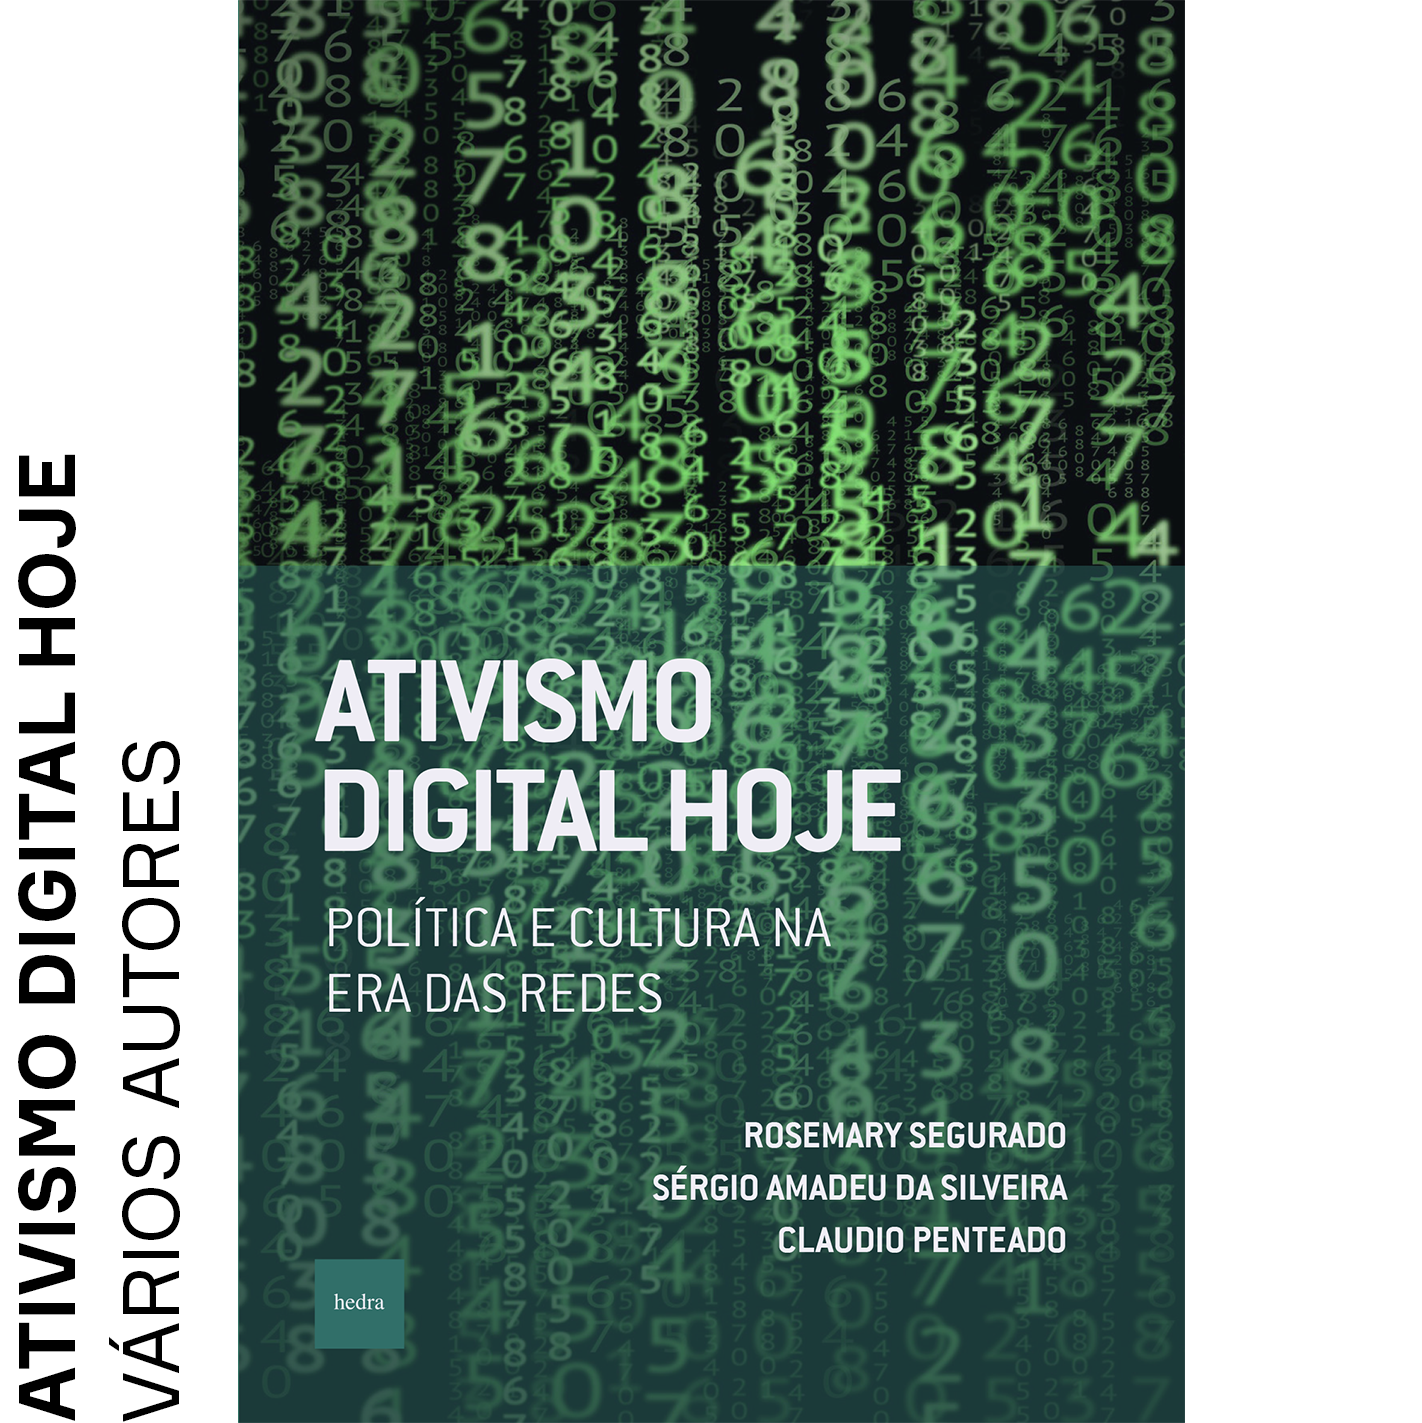
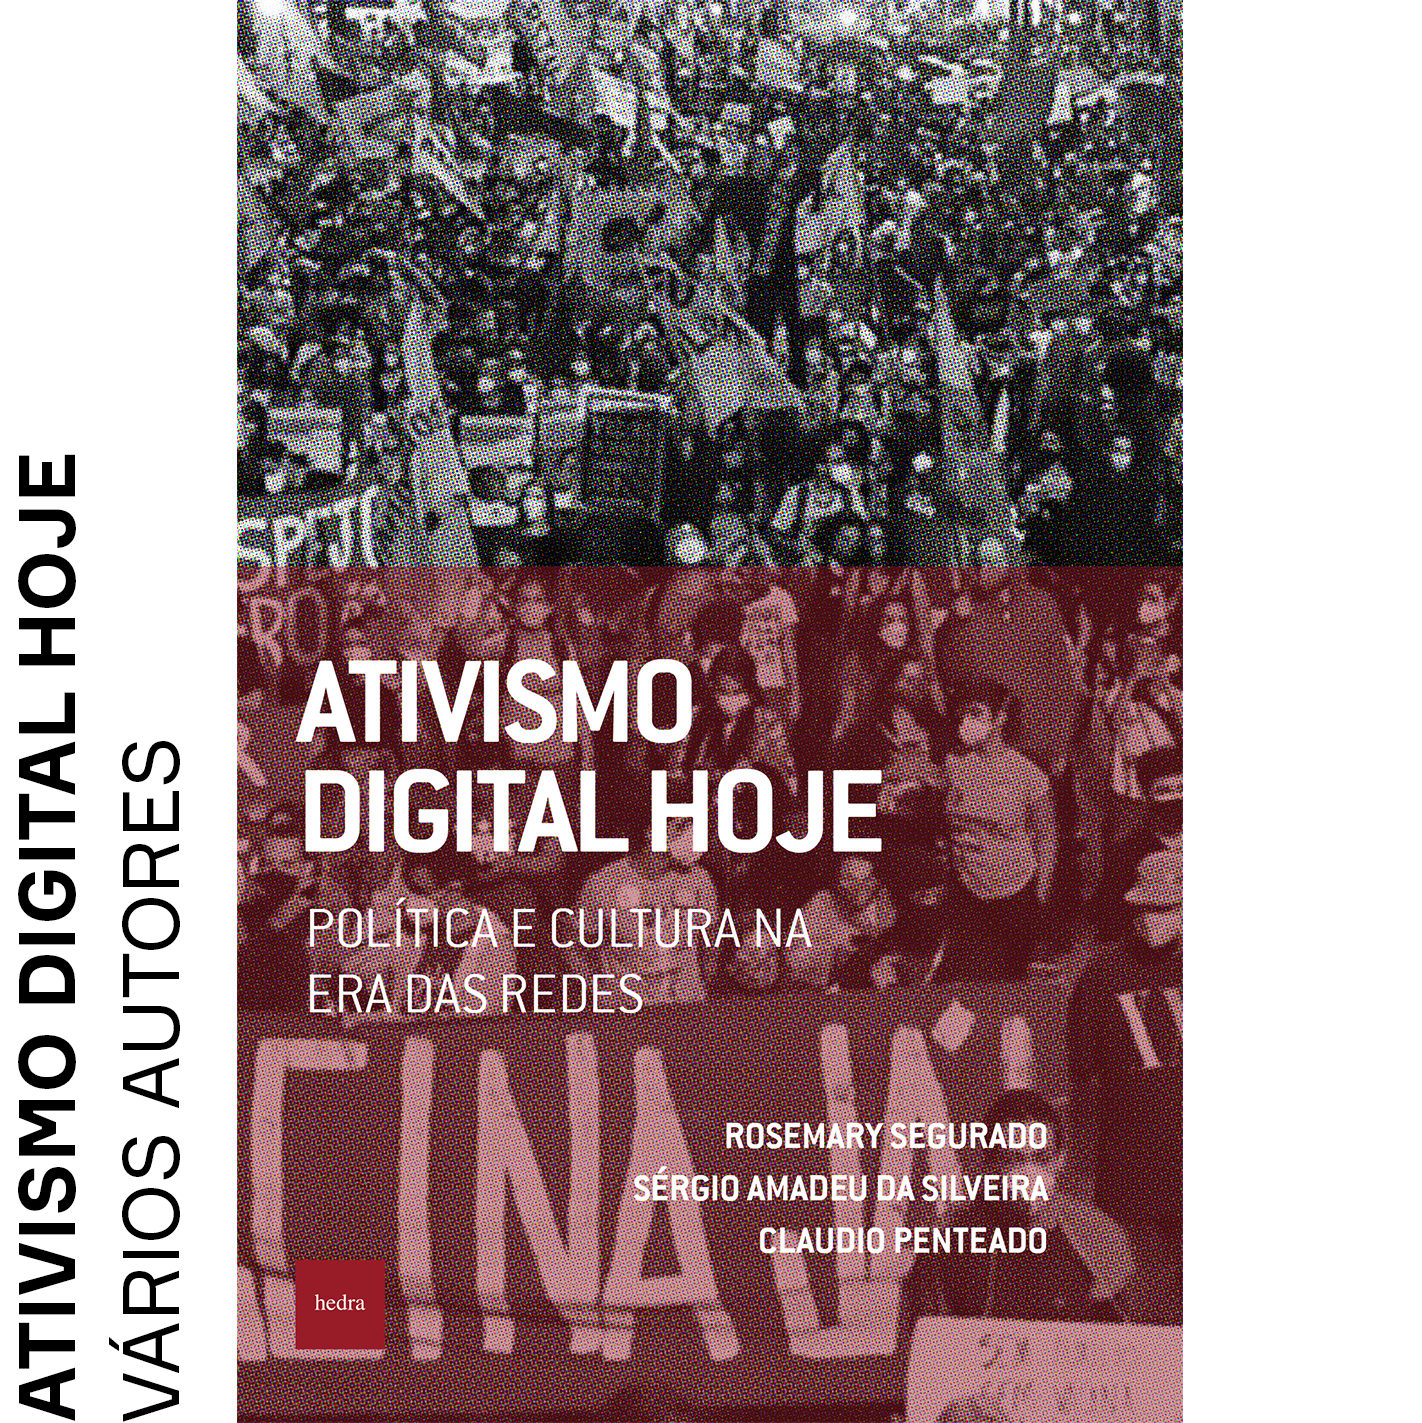
mais vendidos

diff --git a/HEDRA.tex b/HEDRA.tex
@@ -218,7 +218,7 @@ Preço: R\$ 59,00\\
 \pagebreak
 
 \begin{center}
-\hspace*{.5cm}\includegraphics[width=74mm]{./CAPAS/AMADEU_ATIVISMO.jpg}
+\hspace*{.5cm}\includegraphics[width=74mm]{./CAPAS/HEDRA_ATIVISMO.jpg}
 \end{center}
 \hspace*{-7cm}\hrulefill\hspace*{-7cm}
 \medskip
@@ -460,36 +460,36 @@ Na capital do Império, Gama era apresentado pela \textit{Gazeta da Tarde} como 
 \begin{multicols}{2}
 \begin{enumerate}
 \raggedright\nohyphens{
+\item A sociedade de controle \textbf{Joyce Souza, Rodolfo Avelino, Sérgio Amadeu da Silveira}
+\item O contador de histórias e outros textos \textbf{Walter Benjamin}
+\item Diário parisiense e outros escritos \textbf{Walter Benjamin}
+\item Rashômon e outros contos \textbf{Akutagawa}
+\item A linguagem fascista \textbf{Carlos Piovezani, Emilio Gentile}
 \item Teogonia \textbf{Hesíodo}
-\item O ladrão honesto e outros contos \textbf{Fiódor Dostoiévski}
-\item Micromegas \textbf{Voltaire}
-\item A sociedade de controle \textbf{Joyce Souza, Rodolfo Avelino e Sérgio Amadeu da Silveira}
-\item O quarto poder \textbf{Paulo Henrique Amorim}
-\item Deus e o Estado \textbf{Mikhail Bakunin}
-\item Lugar de negro, lugar de branco? \textbf{Douglas Rodrigues Barros}
-\item O princípio anarquista e outros ensaios \textbf{Piotr Alekseievitch Kropotkin}
-\item Dicionário de história e cultura da era viking \textbf{Johnni Langer}
+\item Liberdade \textbf{1880-1882) \textbf{Luiz Gama}
 \item Poesia completa \textbf{Orides Fontela}
 \item Sobre verdade e mentira \textbf{Friedrich Nietzsche}
-\item Dicionário de mitologia nórdica \textbf{Johnni Langer}
-\item Rashômon e outros contos \textbf{Akutagawa}
-\item O indivíduo, a sociedade e o Estado e outros ensaios \textbf{Emma Goldman}
-\item Memórias do subsolo \textbf{Fiódor Dostoiévski}
-\item O chamado de Cthulhu \textbf{H.\,P.\,Lovecraft}
-\item Bom crioulo \textbf{Adolfo Caminha}
-\item Nos cumes do desespero \textbf{Emil Cioran}
-\item Édipo Rei \textbf{Sófocles}
-\item Dilma Rousseff e o ódio político \textbf{Tales Sáber}
-\item Contos clássicos de vampiro \textbf{Lord Byron, Bram Stoker e mais}
+\item A volta do parafuso \textbf{Henry James}
+\item Democracia \textbf{1866-1869) \textbf{Luiz Gama}
 \item Trabalhos e os dias \textbf{Hesíodo}
+\item Deus e o Estado \textbf{Mikhail Bakunin}
+\item Hino a Afrodite e outros poemas \textbf{Safo de Lesbos}
+\item O princípio anarquista e outros ensaios \textbf{Piotr Alekseievitch Kropotkin}
+\item Pandemia e anarquia \textbf{Edson Passetti, João da Mata, José Maria Carvalho Ferreira}
+\item Lugar de negro, lugar de branco? \textbf{Douglas Rodrigues Barros}
+\item O indivíduo, a sociedade e o Estado e outros ensaios \textbf{Emma Goldman}
+\item Machismo, racismo, capitalismo identitário \textbf{Pablo Polese}
+\item Dicionário de mitologia nórdica \textbf{Johnni Langer}
+\item Freud e o patriarcado \textbf{Léa Silveira, Alessandra Martins Parente}
+\item Dicionário de história e cultura da era Viking \textbf{Johnni Langer} 
+\item O princípio do Estado e outros ensaios \textbf{Mikhail Bakunin}
 \item Sobre a utilidade e a desvantagem da história para a vida \textbf{Friedrich Nietzsche}
-\item Saga dos volsungos \textbf{Anônimo}
-\item O contador de histórias \textbf{Walter Benjamin}
-\item Michel Temer e o fascismo comum \textbf{Tales Ab'Sáber}
-\item A metamorfose \textbf{Franz Kafka}
-\item A filosofia na era trágica dos gregos \textbf{Friedrich Nietzsche}
-\item O médico e o monstro \textbf{Robert Louis Stevenson}
-\item Diário de um escritor (1873) \textbf{Fiódor Dostoiévski}
+\item Ode sobre a melancolia e outros poemas \textbf{John Keats}
+\item O chamado de Cthulhu \textbf{H. P. Lovecraft}
+\item Saga dos Volsungos \textbf{Anônimo}
+\item Os sofrimentos do jovem Werther \textbf{Johann Wolfgang Von Goethe}
+\item Memórias do subsolo \textbf{Fiódor Dostoiévski}
+\item A monadologia e outros textos \textbf{Gottfried Leibniz}
 }
 \end{enumerate}
 \end{multicols}

diff --git a/CIRCUITO.tex b/CIRCUITO.tex
@@ -267,36 +267,36 @@ artística, o espectador.
 \begin{multicols}{2}
 \begin{enumerate}
 \raggedright\nohyphens{
-\item 2013 \textbf{Camila Jourdan}
-\item Adoecer \textbf{Hélia Correia}
 \item Introdução à Soma \textbf{João da Mata}
-\item Éter \textbf{António Cabrita}
-\item Diários de Vincent \textbf{Evando Nascimento}
-\item Até ano que vem em Jerusalém \textbf{Maria da Conceição Caleiro}
-\item Noturno Europeu \textbf{Rui Nunes}
-\item A loucura branca \textbf{Jaime Rocha}
 \item Filosofia Black Bloc \textbf{Murilo Duarte Costa Correa}
+\item 2013 \textbf{Camila Jourdan}
+\item Antifa \textbf{Vários autores}
+\item 1967, meio século depois \textbf{Vários autores}
+\item Experimentum linguae \textbf{Giorgio Agamben}
+\item Adoecer \textbf{Hélia Correia}
 \item Todos os lugares \textbf{Alex Cerveny}
-\item Onde late um cachorro doido \textbf{Moisés Alves}
-\item O tropo tropicalista \textbf{João Camillo Penna}
-\item Experimentum linguae \textbf{Giorgio Agamben; Cláudio Oliveira}
-\item Nós, o outro, o distante na arte brasileira contemporânea \textbf{Marisa Flórido Cesar}
-\item A liberação da mosca \textbf{Luigi Amara}
-\item Asas de Saturno \textbf{Maria João Cantinho}
-\item Experiência e arte contemporânea \textbf{Ana Kiffer, Renato Rezende e Christopher Bident}
-\item A reflexão atuante \textbf{Sergio Cohn}
-\item Escritos sobre fotografia contemporânea brasileira \textbf{Antonio Fatorelli, Leandro Pimentel e Victa de Carvalho}
-\item O fantasma de um nome \textbf{poesia, imaginário, vida} \textbf{Jorge Monteleone}
-\item A ideia de cinema na arte contemporânea brasileira \textbf{Katia Maciel}
-\item Daniel Acosta \textbf{Tadeu Chiarelli, Martin Grossman e mais}
+\item Formas híbridas \textbf{Rafael Gutiérrez}
+\item Até ano que vem em Jerusalém \textbf{Maria da Conceição Caleiro}
+\item Coisas que fiz e ninguém notou mas que mudaram tudo \textbf{Moisés Alves}
 \item Escrever sobre escrever poesia \textbf{Eduardo Milán}
-\item Leituras furadas \textbf{Luis Felipe Fabre}
+\item Noturno Europeu \textbf{Rui Nunes}
+\item O tropo tropicalista \textbf{João Camillo Penna}
+\item Quem apaga a luz sou eu \textbf{Magda Romano}
 \item Mudança \textbf{Verónica Gerber Bicecci}
-\item A noite não é eterna \textbf{Ana Cristina Silva}
-\item O desafio da hospitalidade \textbf{Márcia Noronha Santos Ferran}
-\item Impunidade \textbf{H.\,G.\,Cancela}
+\item Fim do Infante \textbf{Marina Marcondes Machado}
+\item A loucura branca \textbf{Jaime Rocha}
 \item As artes do cover \textbf{Henrique Saidel}
-\item Conversas transversais com Yuri Firmeza \textbf{Cecília Bedê}
+\item Leituras furadas \textbf{Luis Felipe Fabre}
+\item Éter \textbf{António Cabrita}
+\item A liberação da mosca \textbf{Luigi Amara}
+\item Daniel Acosta \textbf{Vários autores}
+\item Café irlandês \textbf{Barbosa Lagos}
+\item Escrito e dirigido por Moisés Alves \textbf{Moisés Alves}
+\item Romance de asilo \textbf{André Monteiro}
+\item A cena lenta \textbf{Cláudio Oliveira}
+\item Frestas \textbf{André Gardel}
+\item O fantasma de um nome \textbf{poesia, imaginário, vida) \textbf{Jorge Monteleone}
+\item Lasca de breu \textbf{Guilherme Delgado}
 }
 \end{enumerate}
 \end{multicols}

diff --git a/N-1.tex b/N-1.tex
@@ -668,34 +668,34 @@ bases para uma crítica das relações entre memória, potencialidade e
 \raggedright\nohyphens{
 \item Necropolítica \textbf{Achille Mbembe}
 \item Crítica da razão negra \textbf{Achille Mbembe}
-\item Teoria King Kong \textbf{Virginie Despentes}
-\item Corpos que importam \textbf{Judith Butler}
-\item Esferas da inssureição \textbf{Suely Rolnik}
 \item Testo junkie \textbf{Paul B. Preciado}
-\item Nietzsche e a filosofia \textbf{Gilles Deleuze}
-\item A cosmopolítica dos animais \textbf{Juliana Fausto}
-\item Tempos Modernos: Arte, tempo, política \textbf{Jacques Rancière}
-\item Bash Back \textbf{Bash Back}
-\item As existências mínimas \textbf{David Lapoujade}
-\item Manifesto contrassexual \textbf{Beatriz Preciado}
-\item Ensaios do assombro \textbf{Peter Pál Pelbart}
 \item Pornotopia \textbf{Paul B. Preciado}
-\item Ética bixa \textbf{Paco Vidarte}
-\item Os vagabundos eficazes \textbf{Fernand Deligny}
+\item Teoria King Kong \textbf{Virginie Despentes, Márcia Bechara}
+\item Manifesto contrassexual \textbf{Paul B. Preciado}
+\item Esferas da inssureição \textbf{Suely Rolnik}
+\item Corpos que importam \textbf{Judith Butler}
+\item A cosmopolítica dos animais \textbf{Juliana Fausto}
+\item Nietzsche e a filosofia \textbf{Gilles Deleuze}
+\item Bash Back \textbf{Vários autores}
+\item Diferentes modos de existência \textbf{Étienne Soriau}
+\item Tempos Modernos: Arte, tempo, política \textbf{Jacques Rancière}
+\item Semente de crápula \textbf{Fernand Deligny}
+\item O clarão de Espinosa \textbf{Romain Rolland}
 \item Povo em lágrimas, povo em armas \textbf{Georges Didi-Huberman}
-\item Um piano nas barricadas \textbf{N-1 edições}
-\item Impressões de Michel Foucault \textbf{Roberto Machado}
-\item Deleuze, os movimentos aberrantes \textbf{David Lapoujade}
-\item Fascismo ou revolução? \textbf{Maurizio Lazzarato}
-\item Fernando Pessoa ou a Metafísica das Sensações \textbf{José Gil}
-\item O enigma da revolta \textbf{Michel Foucault}
-\item Cartas e outros textos \textbf{Gilles Deleuze e David Lapoujade}
-\item Potências do tempo \textbf{David Lapoujade}
+\item Homo Inc.Orporated \textbf{Sam Bourcier}
+\item As existências mínimas \textbf{David Lapoujade}
+\item Os vagabundos eficazes \textbf{Fernand Deligny}
+\item No silêncio que as palavras guardam \textbf{Lula Wanderley}
 \item Fragmentos de memórias malditas \textbf{Cecília Coimbra}
-\item Pragmatismo pulsional \textbf{João Perci Schiavon}
-\item Arqueofeminismo \textbf{Maxime Rovere}
-\item Aos nossos amigos \textbf{Comitê Invisível}
+\item Ética bixa \textbf{Paco Vidarte}
+\item Salto no escuro \textbf{Tuca Vieira}
 \item Des-Habitat \textbf{Paulo Tavares}
+\item Ensaios do assombro \textbf{Peter Pál Pelbart}
+\item Deleuze, os movimentos aberrantes \textbf{David Lapoujade}
+\item Impressões de Michel Foucault \textbf{Roberto Machado}
+\item Intoxicações poéticas da carne \textbf{Christine Greiner, Gal Oppido}
+\item Pragmatismo pulsional \textbf{João Perci Schiavon}
+\item Mensagens Revolucionárias \textbf{Antonin Artaud}
 }
 \end{enumerate}
 \end{multicols}
